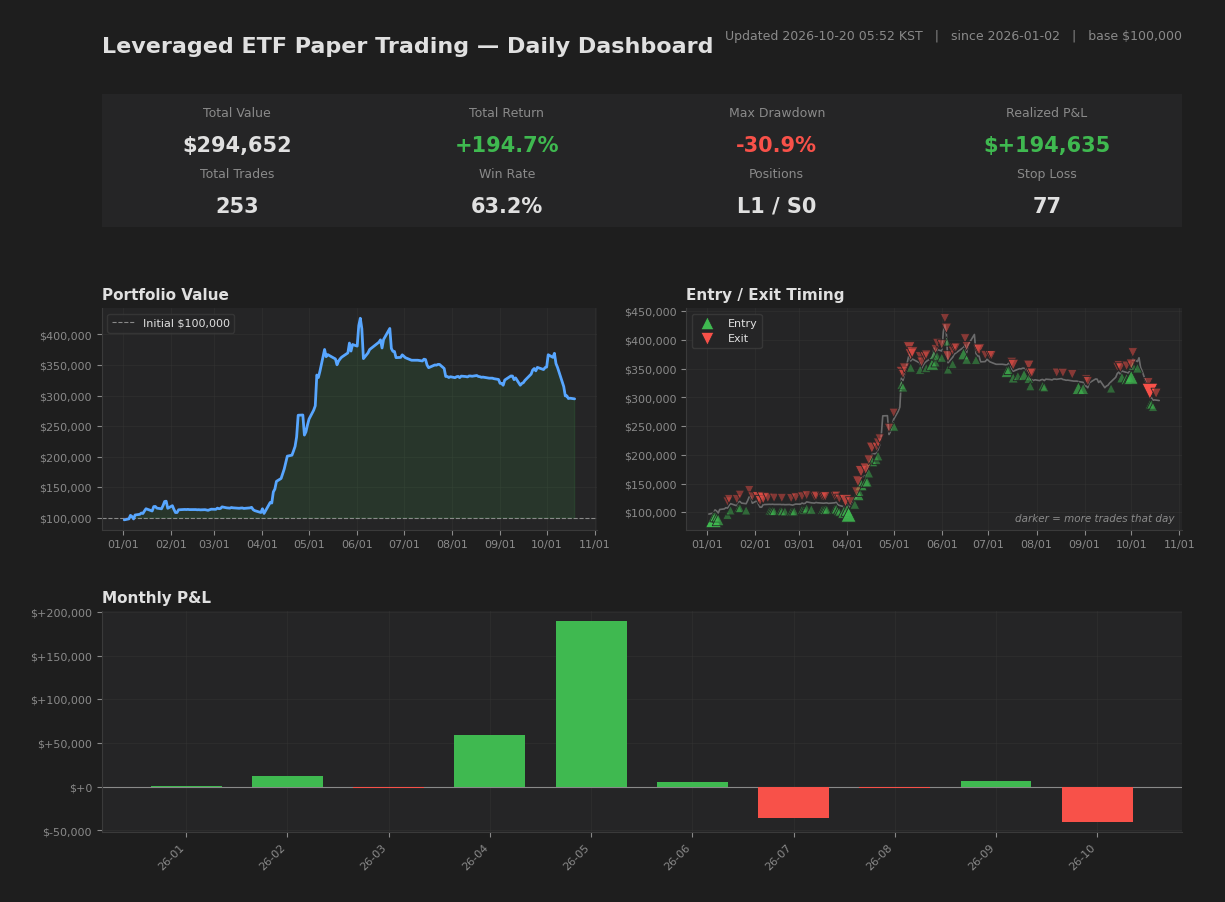
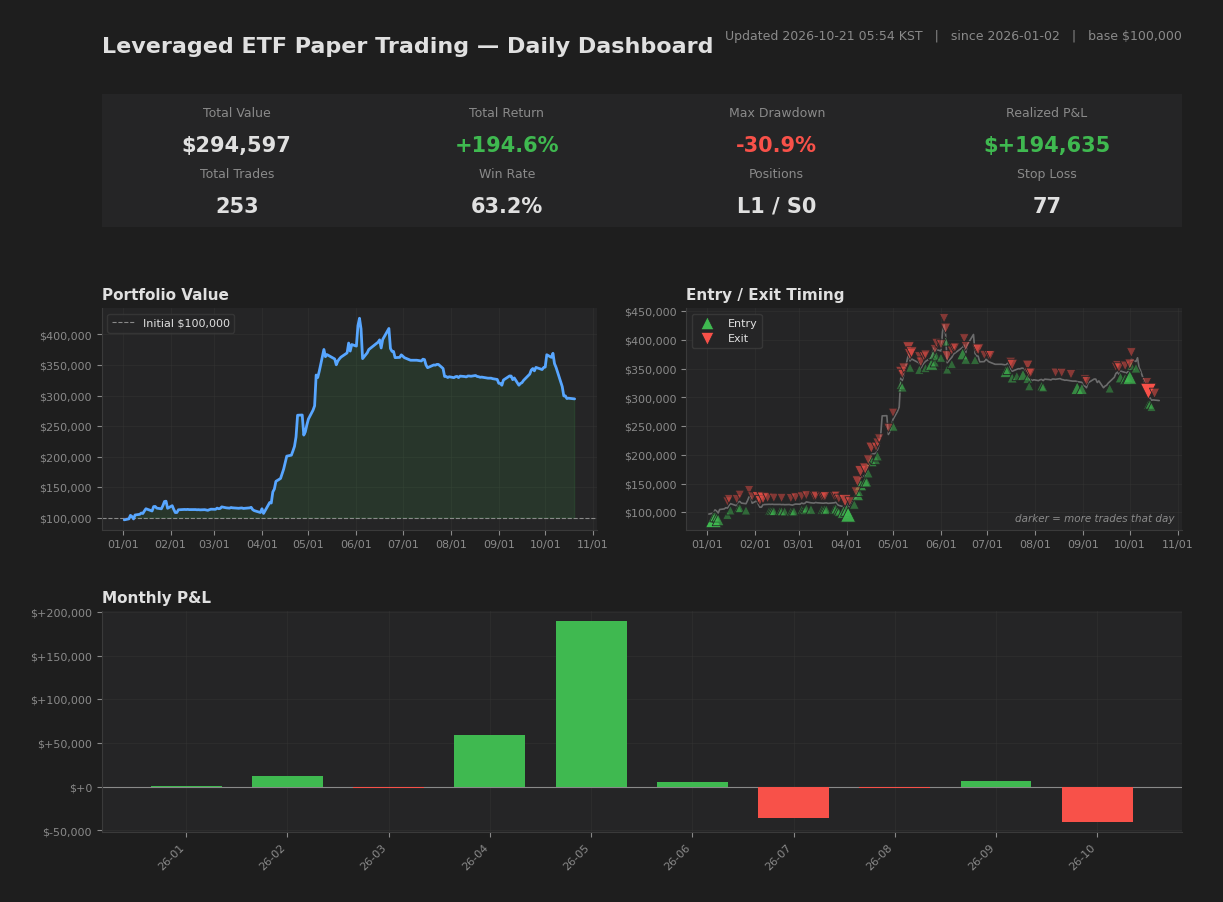
[2026-10-20] Close
Portfolio: $294,597 (+194.6%)
Positions: 1 (L1 S0)
Cumulative: 160/253 wins, P&L: $+194,635

diff --git a/README.md b/README.md
@@ -19,8 +19,8 @@ Focus on risk management, not headline returns. The strategy targets leveraged E
 Drawdown control vs. benchmark. While the benchmark experienced a maximum drawdown of roughly 40–50% over the same period, this strategy's own drawdown is reported below, measured from the paper-trading equity curve and refreshed automatically after each market close.
 
 <!-- METRICS:BEGIN (auto-generated by snapshot_backup.py after each market close; do not edit by hand) -->
-- Maximum drawdown: **-30.90%** (peak 2026-06-03 -> trough 2026-10-19, still in drawdown at this date)
-- As of **2026-10-19** market close. Updated automatically after each close.
+- Maximum drawdown: **-30.91%** (peak 2026-06-03 -> trough 2026-10-20, still in drawdown at this date)
+- As of **2026-10-20** market close. Updated automatically after each close.
 <!-- METRICS:END -->
 
 Execution costs. Because the strategy holds positions over multi-day periods with low turnover, the impact of slippage and commissions is designed to be limited rather than a primary driver of results.
